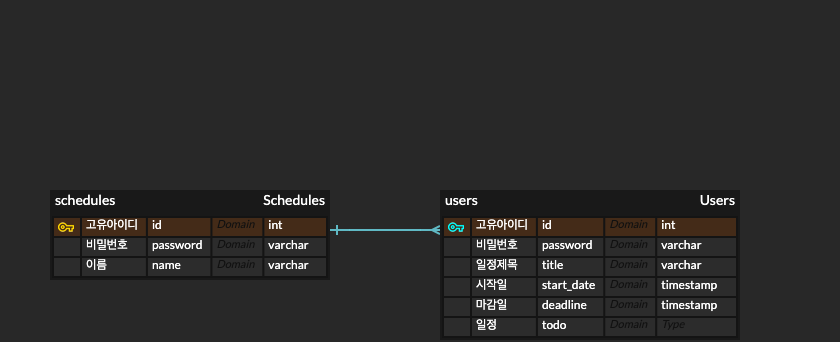
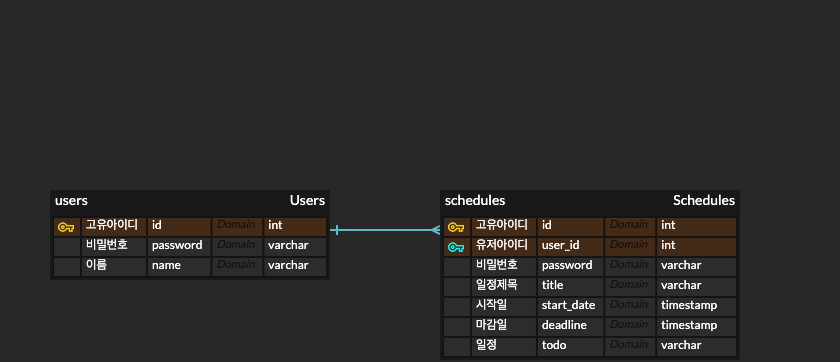
docs: ERD 변경

Changed region(s): [[0.0619, 0.5263, 0.8976, 0.9649], [0.7738, 0.9357, 0.8357, 0.9649], [0.65, 0.9357, 0.681, 0.9649]]

diff --git a/README.md b/README.md
@@ -10,6 +10,33 @@
 | 선택 일정 조회 | GET   | /schedules/{id} | - | - | 200:정상 조회, 400:잘못된 값, 404: 일정 찾을 수 없음 |
 | 선택 일정 수정 | PUT   | /schedules/{id} | - | - | 200:정상 수정, 400:잘못된 값, 404: 일정 찾을 수 없음 |
 | 일정 삭제    | DELETE | /schedules/{id} | - | - | 200:정상 삭제, 400:잘못된 값, 404: 일정 찾을 수 없음 |
+<br>
+<details>
+<summary> 일정 생성</summary>
+
+|메서드|
+|----|
+|POST|
+#### Request
+```
+{
+}
+```
+</details>
+
+<details>
+<summary> 전체 일정 조회</summary>
+
+| 메서드 |
+|-----|
+| GET |
+#### Response
+```
+{
+}
+```
+</details>
+
 
 ***
 ### ERD
